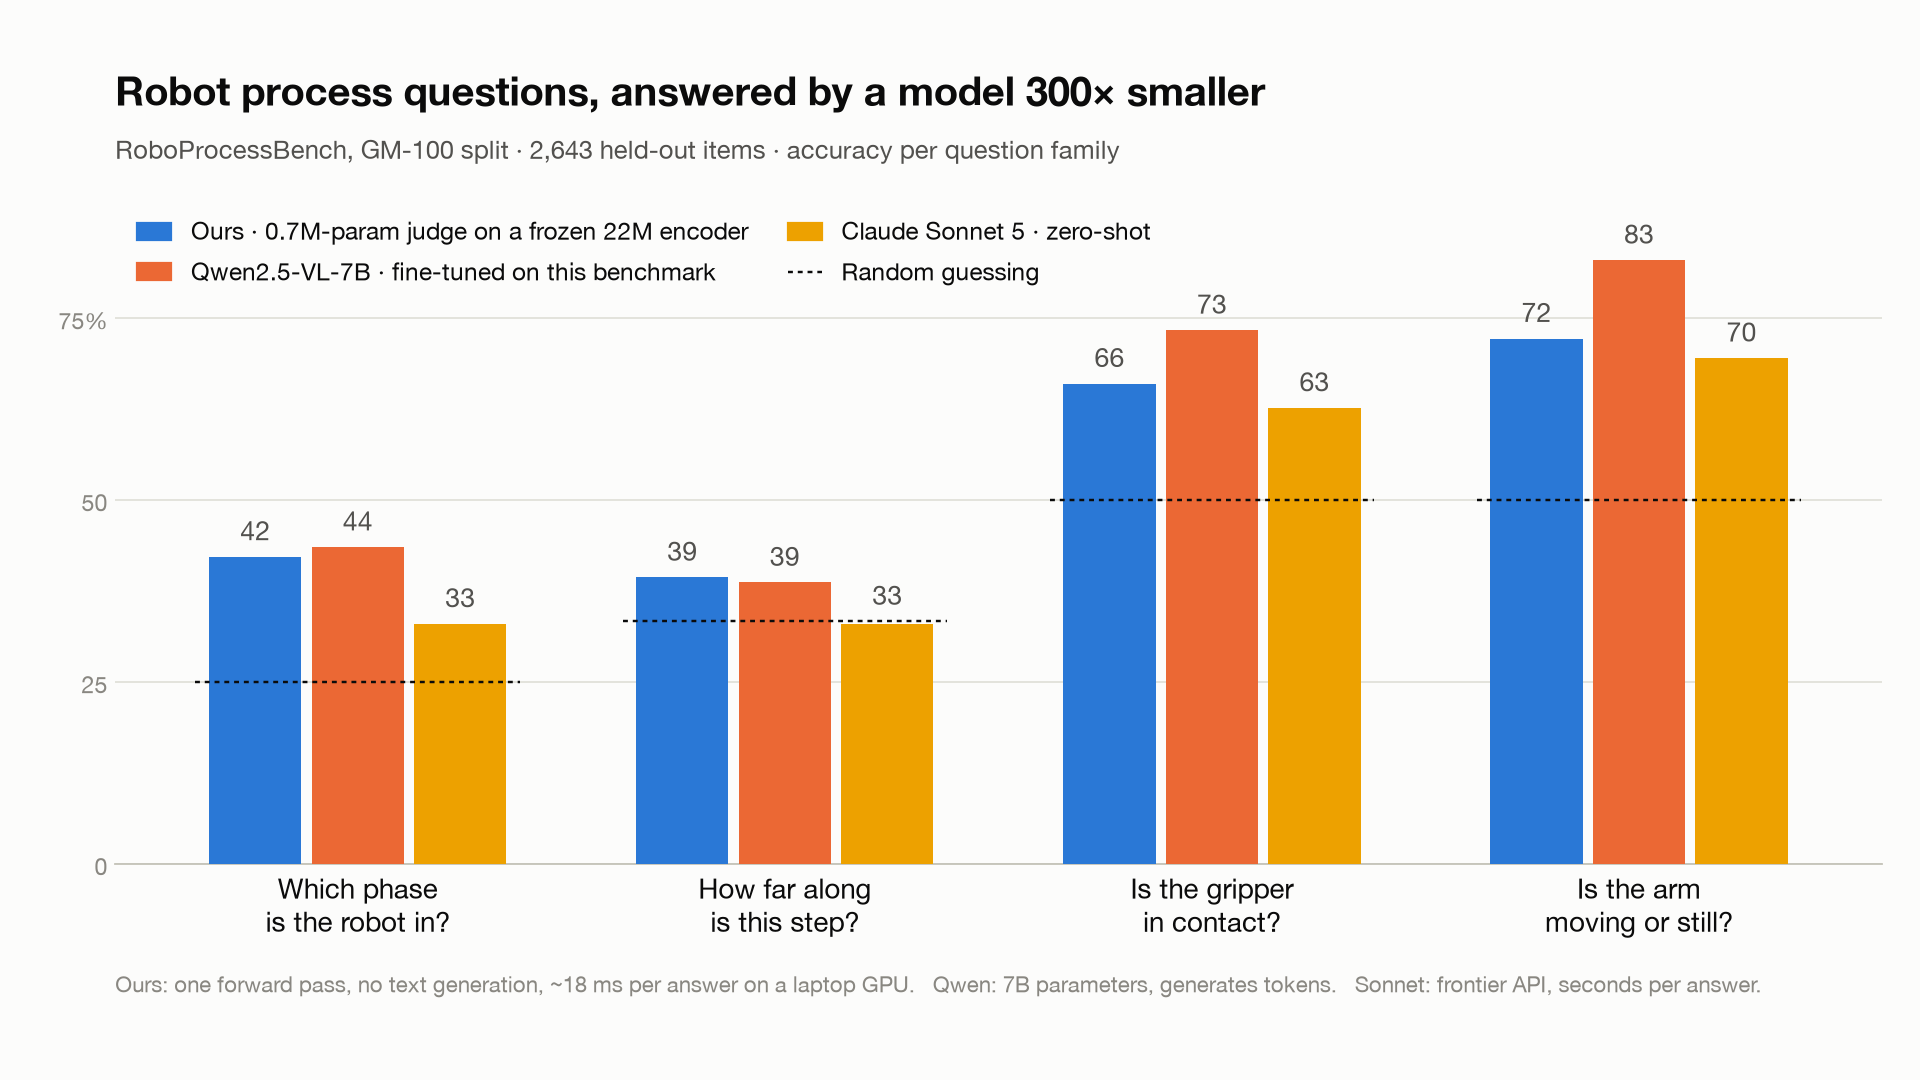
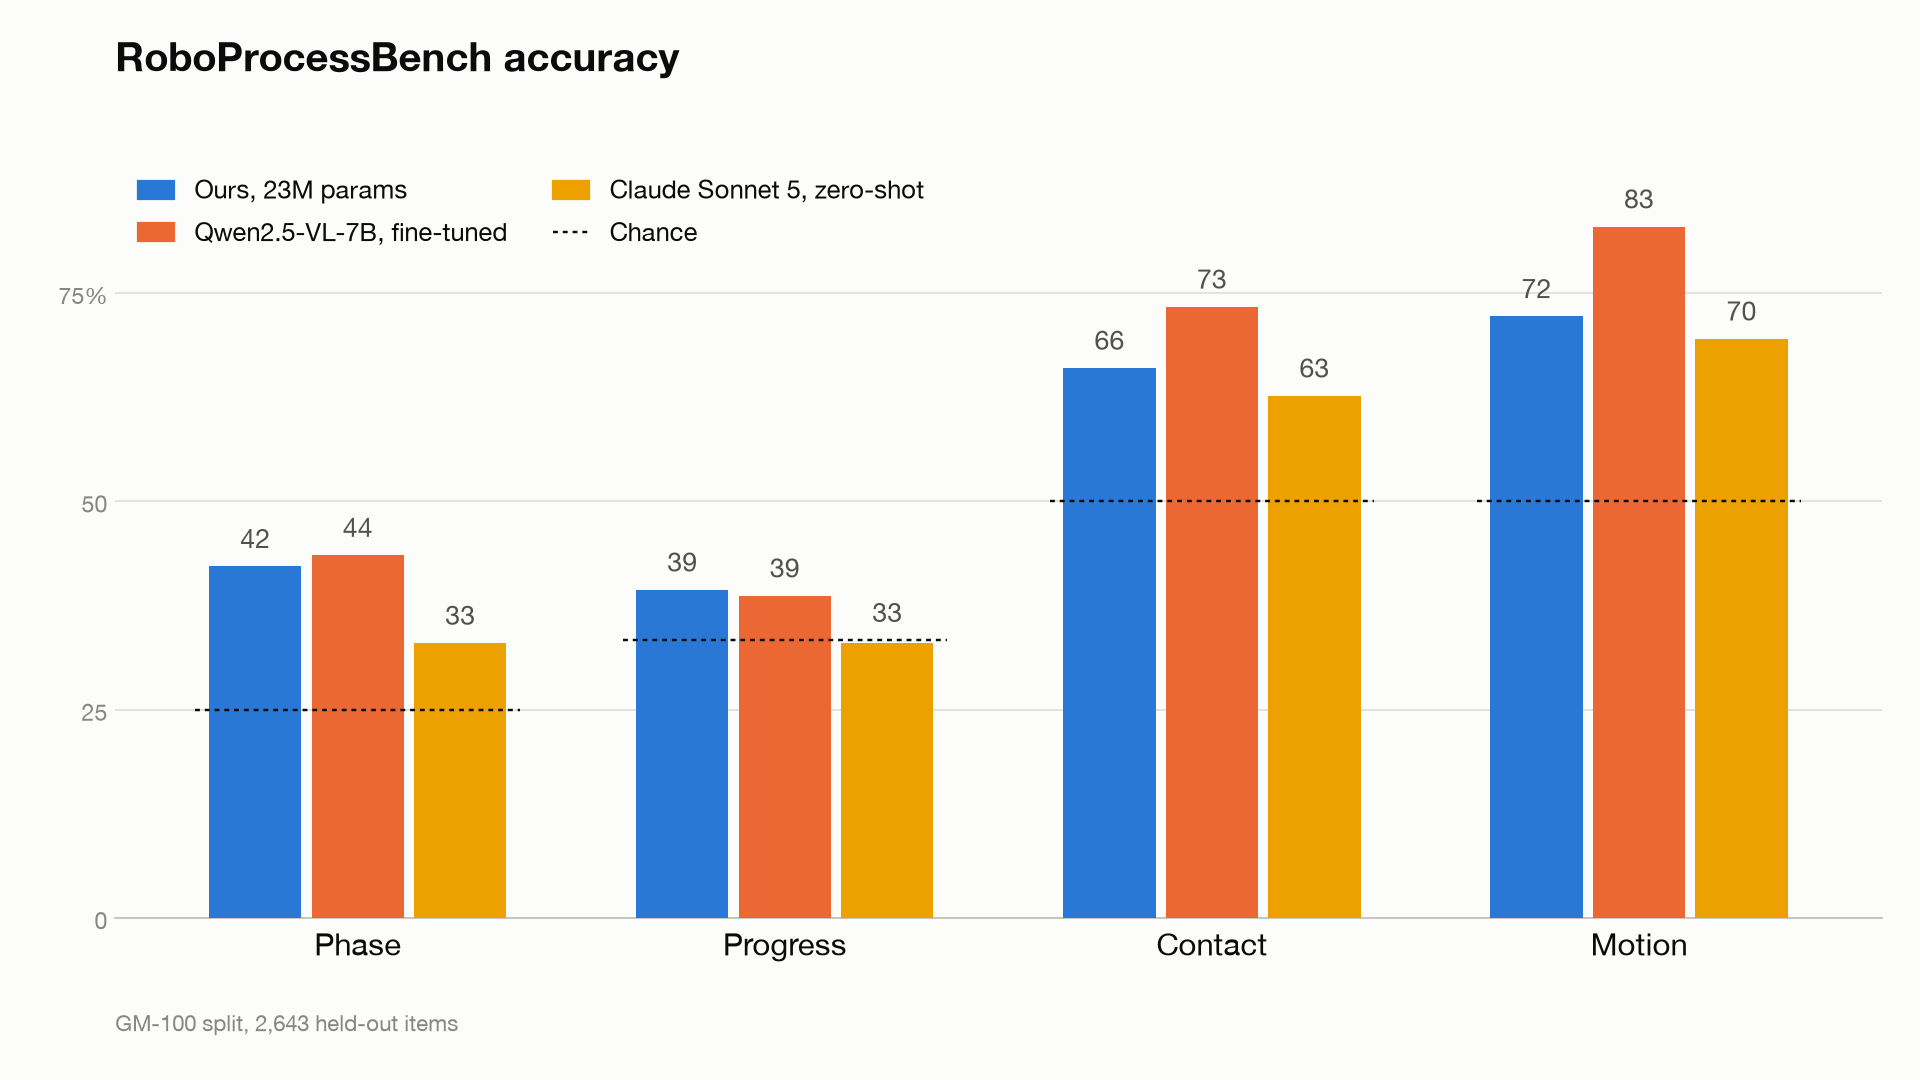
Concise chart: minimal text
Claude-Session: https://claude.ai/code/session_01PPanTGNdXW2Zuzm14hosLG

diff --git a/jev/rpb_chart_concise.py b/jev/rpb_chart_concise.py
@@ -13,7 +13,7 @@ from matplotlib.lines import Line2D
 from matplotlib.patches import Patch
 
 RPB = Path("data/RoboProcessBench"); OUT = Path("docs/figures")
-FAM = [("T1", "Which phase\nis the robot in?"), ("T5", "How far along\nis this step?"), ("T2", "Is the gripper\nin contact?"), ("T6", "Is the arm\nmoving or still?")]
+FAM = [("T1", "Phase"), ("T5", "Progress"), ("T2", "Contact"), ("T6", "Motion")]
 PAL = {"light": {"ours": "#2a78d6", "qwen": "#eb6834", "sonnet": "#eda100", "surface": "#fcfcfb", "ink": "#0b0b0b", "ink2": "#52514e", "muted": "#898781", "grid": "#e1e0d9", "axis": "#c3c2b7"},
        "dark": {"ours": "#3987e5", "qwen": "#d95926", "sonnet": "#c98500", "surface": "#1a1a19", "ink": "#ffffff", "ink2": "#c3c2b7", "muted": "#898781", "grid": "#2c2c2a", "axis": "#383835"}}
 
@@ -22,9 +22,9 @@ def main():
     ours = json.load(open("outputs/rpb/results.json"))["per_task"]; qwen = json.load(open(RPB / "qwen_lora_per_task.json"))
     sonnet = json.load(open("outputs/rpb_vlm/results_claude-sonnet-5.json"))["per_task"]
     dist = {l.split(",")[0]: float(l.strip().split(",")[4]) for l in open(RPB / "metadata/task_distribution.csv") if l.startswith("T")}
-    series = [("ours", "Ours · 0.7M-param judge on a frozen 22M encoder", {t: ours[t]["ours"] for t in ours}),
-              ("qwen", "Qwen2.5-VL-7B · fine-tuned on this benchmark", {t: qwen[t]["gm100"][0] / qwen[t]["gm100"][1] for t in qwen if qwen[t]["gm100"]}),
-              ("sonnet", "Claude Sonnet 5 · zero-shot", {t: sonnet[t]["acc"] for t in sonnet})]
+    series = [("ours", "Ours, 23M params", {t: ours[t]["ours"] for t in ours}),
+              ("qwen", "Qwen2.5-VL-7B, fine-tuned", {t: qwen[t]["gm100"][0] / qwen[t]["gm100"][1] for t in qwen if qwen[t]["gm100"]}),
+              ("sonnet", "Claude Sonnet 5, zero-shot", {t: sonnet[t]["acc"] for t in sonnet})]
     for mode in ("light", "dark"):
         c = PAL[mode]
         plt.rcParams.update({"font.family": "sans-serif", "font.sans-serif": ["Helvetica Neue", "Helvetica", "Arial", "DejaVu Sans"]})
@@ -37,18 +37,16 @@ def main():
                 ax.text(x, 100 * max(v, dist[t]) + 1.5, f"{100*v:.0f}", ha="center", va="bottom", fontsize=12, color=c["ink2"], zorder=6)
         for xi, (t, _) in enumerate(FAM):
             ax.plot([xi - 0.38, xi + 0.38], [100 * dist[t]] * 2, color=c["ink"], lw=1.1, ls=(0, (2, 2)), zorder=5)
-        ax.set_xticks(range(len(FAM))); ax.set_xticklabels([f for _, f in FAM], fontsize=12.5, color=c["ink"])
+        ax.set_xticks(range(len(FAM))); ax.set_xticklabels([f for _, f in FAM], fontsize=14, color=c["ink"])
         ax.set_ylim(0, 92); ax.set_yticks([0, 25, 50, 75]); ax.set_yticklabels(["0", "25", "50", "75%"], fontsize=10.5, color=c["muted"])
         ax.yaxis.grid(True, color=c["grid"], lw=0.8); ax.set_axisbelow(True)
         for s in ("top", "right", "left"): ax.spines[s].set_visible(False)
         ax.spines["bottom"].set_color(c["axis"]); ax.tick_params(axis="both", length=0)
-        ax.set_title("Robot process questions, answered by a model 300× smaller", loc="left", fontsize=18, color=c["ink"], fontweight="semibold", pad=40)
-        ax.text(0, 1.045, "RoboProcessBench, GM-100 split · 2,643 held-out items · accuracy per question family", transform=ax.transAxes, fontsize=11.5, color=c["ink2"], va="bottom")
-        handles = [Patch(color=c[k], label=l) for k, l, _ in series] + [Line2D([0], [0], color=c["ink"], lw=1.1, ls=(0, (2, 2)), label="Random guessing")]
-        ax.legend(handles=handles, loc="upper left", bbox_to_anchor=(0.0, 1.0), frameon=False, fontsize=11, labelcolor=c["ink"], ncol=2, columnspacing=1.6, handlelength=1.4)
-        ax.text(0, -0.16, "Ours: one forward pass, no text generation, ~18 ms per answer on a laptop GPU.   Qwen: 7B parameters, generates tokens.   Sonnet: frontier API, seconds per answer.",
-                transform=ax.transAxes, fontsize=10, color=c["muted"], va="top")
-        fig.subplots_adjust(left=0.06, right=0.98, top=0.82, bottom=0.2)
+        ax.set_title("RoboProcessBench accuracy", loc="left", fontsize=18, color=c["ink"], fontweight="semibold", pad=36)
+        handles = [Patch(color=c[k], label=l) for k, l, _ in series] + [Line2D([0], [0], color=c["ink"], lw=1.1, ls=(0, (2, 2)), label="Chance")]
+        ax.legend(handles=handles, loc="upper left", bbox_to_anchor=(0.0, 1.0), frameon=False, fontsize=11.5, labelcolor=c["ink"], ncol=2, columnspacing=1.8, handlelength=1.4)
+        ax.text(0, -0.12, "GM-100 split, 2,643 held-out items", transform=ax.transAxes, fontsize=10, color=c["muted"], va="top")
+        fig.subplots_adjust(left=0.06, right=0.98, top=0.86, bottom=0.15)
         out = OUT / f"rpb_gm100_concise{'_dark' if mode == 'dark' else ''}.png"; fig.savefig(out, dpi=160, facecolor=c["surface"]); plt.close(fig); print("wrote", out)
 
 
